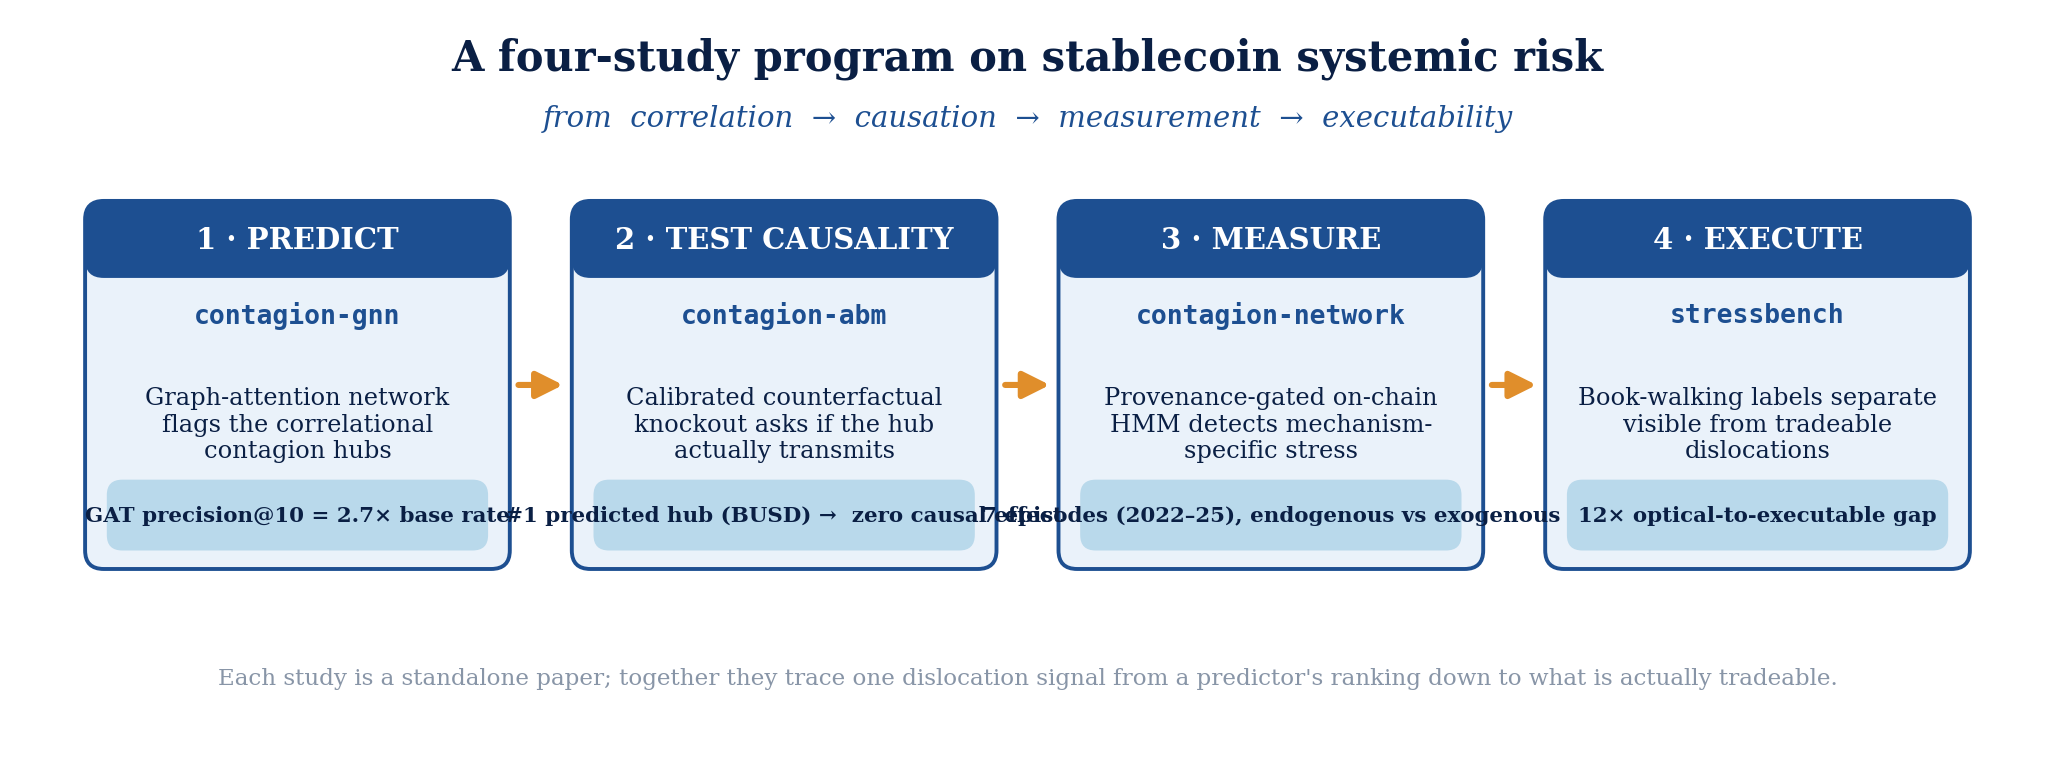
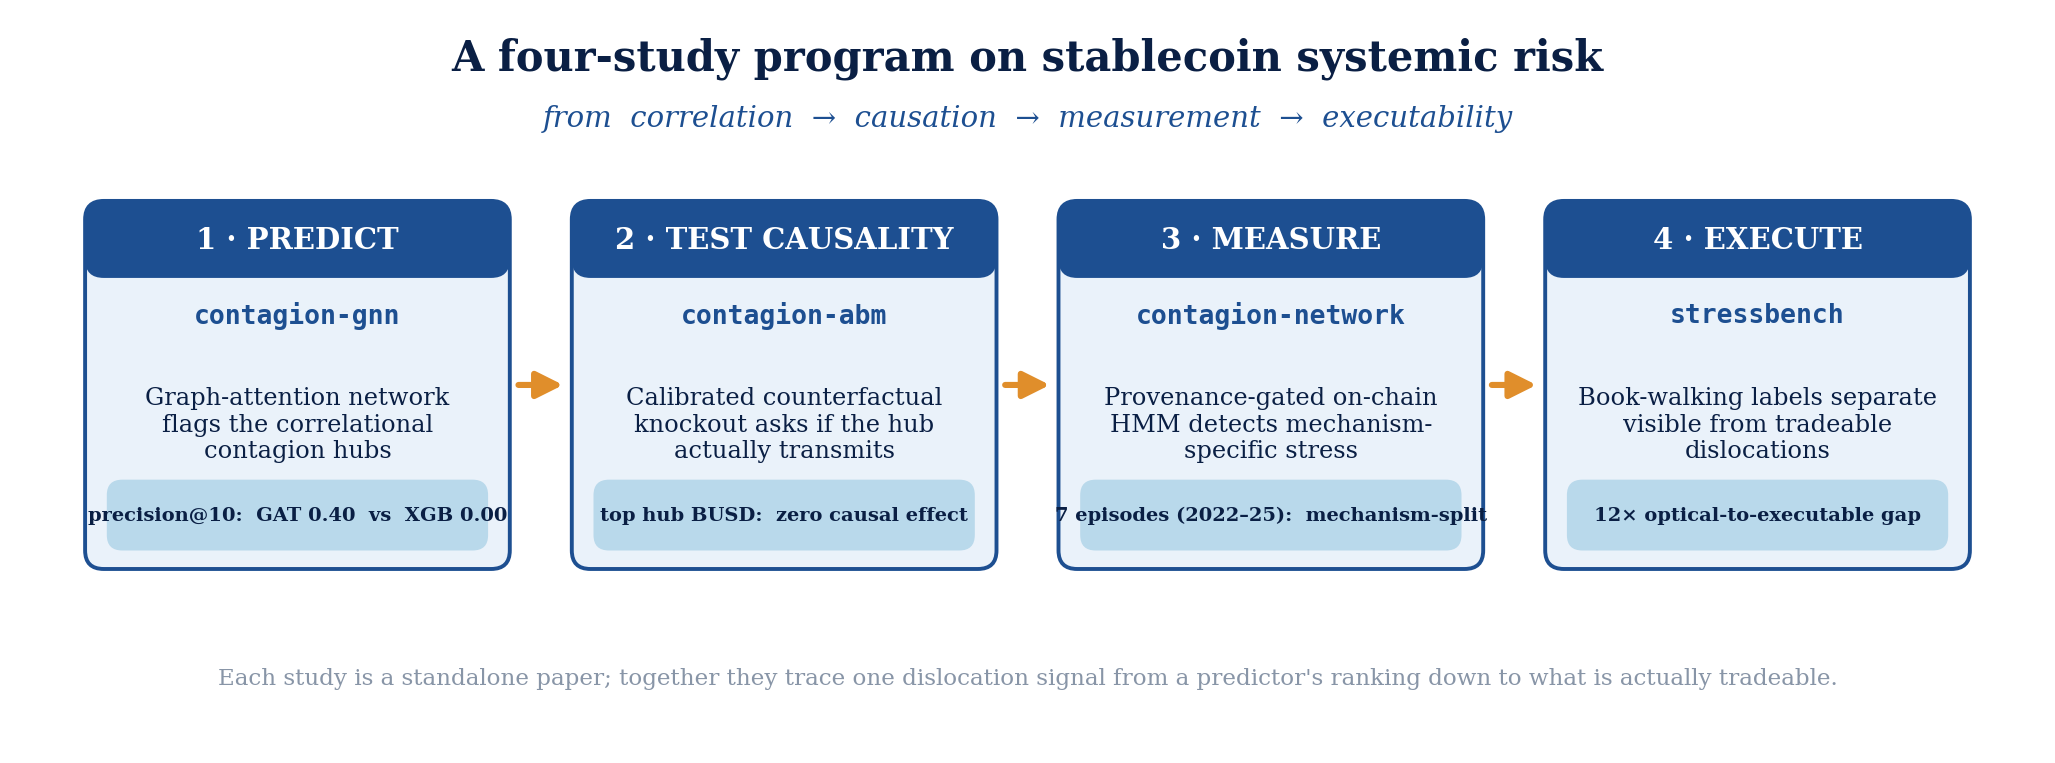
Update research-arc metric (correct GAT precision@10 contrast; tighter chips)

Changed region(s): [[0.0311, 0.6632, 0.9343, 0.6933]]

diff --git a/scripts/make_research_arc_figure.py b/scripts/make_research_arc_figure.py
@@ -33,11 +33,11 @@ plt.rcParams.update({"font.family": "serif", "text.color": INK})
 
 STAGES = [
     ("contagion-gnn", "1 · PREDICT", "Graph-attention network\nflags the correlational\ncontagion hubs",
-     "GAT precision@10 = 2.7× base rate"),
+     "precision@10:  GAT 0.40  vs  XGB 0.00"),
     ("contagion-abm", "2 · TEST CAUSALITY", "Calibrated counterfactual\nknockout asks if the hub\nactually transmits",
-     "#1 predicted hub (BUSD) →  zero causal effect"),
+     "top hub BUSD:  zero causal effect"),
     ("contagion-network", "3 · MEASURE", "Provenance-gated on-chain\nHMM detects mechanism-\nspecific stress",
-     "7 episodes (2022–25), endogenous vs exogenous"),
+     "7 episodes (2022–25):  mechanism-split"),
     ("stressbench", "4 · EXECUTE", "Book-walking labels separate\nvisible from tradeable\ndislocations",
      "12× optical-to-executable gap"),
 ]
@@ -77,7 +77,7 @@ for i, (repo, stage, body, metric) in enumerate(STAGES):
                                 boxstyle="round,pad=0.02,rounding_size=0.1",
                                 linewidth=0, facecolor=COLBLUE, zorder=3))
     ax.text(x + box_w / 2, y0 + 0.33, metric, ha="center", va="center",
-            color=INK, fontsize=7.7, fontweight="bold", zorder=4)
+            color=INK, fontsize=7.0, fontweight="bold", zorder=4)
 
 # arrows between stages
 for i in range(3):